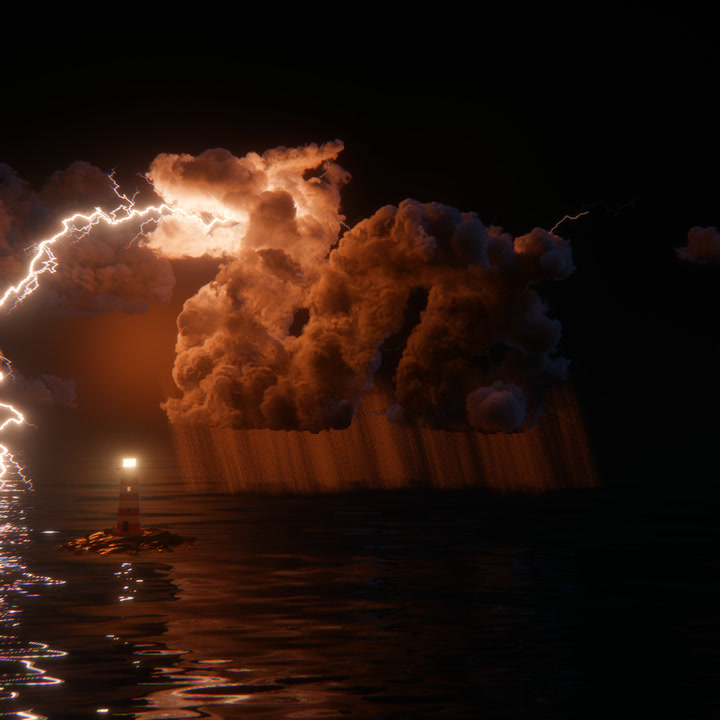
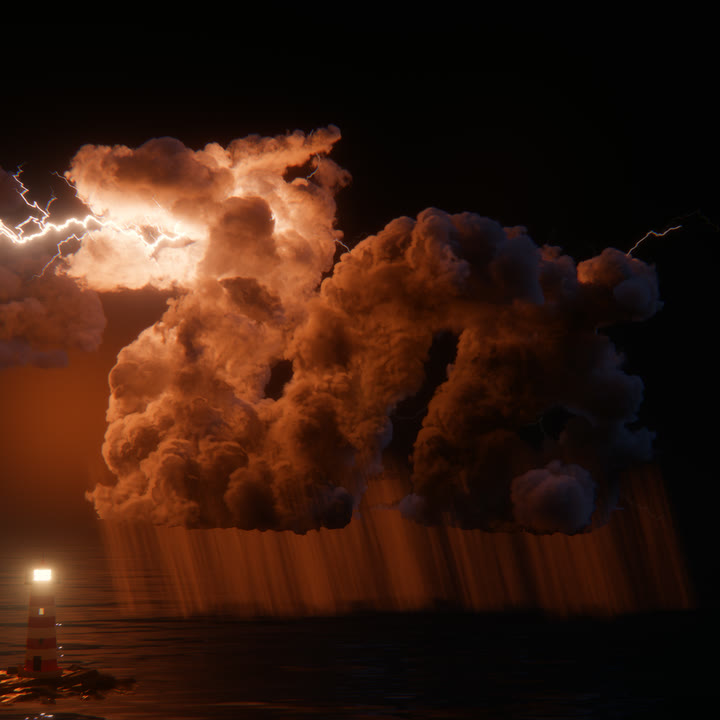
Bolt: its cover cut closer, to the dragon with the bolt leaving its mouth and the lighthouse under it, from the same moment drawn at 3,200 pixels so that what is cut out is sharp; and how that is made, in the readme
Claude-Session: https://claude.ai/code/session_01B7S7VNrJ4AeahmTMjKUi7f

diff --git a/21-bolt/README.md b/21-bolt/README.md
@@ -19,10 +19,13 @@ The loop for X, the thumbnail and the gallery's cover (`output/` is not committe
 
     npm run build && npx vite preview --port 5399 &
     URL=http://localhost:5399/ SET='{"thick":300}' node tools/film.mjs output/bolt_x.mp4 1024x1024 30      # about 12 minutes
-    URL=http://localhost:5399/ SET='{"thick":300}' AT=29.7 node tools/film.mjs output/bolt_thumbnail_2048.jpg
+    URL=http://localhost:5399/ SET='{"thick":300,"detail":8,"steady":false}' AT=29.7 node tools/film.mjs big.png 1600x1600
+    ffmpeg -i big.png -vf "crop=2300:2300:440:220,scale=2048:2048:flags=lanczos" -q:v 2 output/bolt_thumbnail_2048.jpg
 
 (from a built copy, so that nothing reloads the page while it is filmed; and with thinner clouds than the page's 800,
-which the light goes further into: a film is drawn a frame at a time, so what that costs does not matter there).
+which the light goes further into: a film is drawn a frame at a time, so what that costs does not matter there. The
+thumbnail is the dragon's part of that frame, drawn at 3,200 pixels and the clouds marched with 8 million, so that
+what is cut out of it is as sharp as the whole was; the cover is the same at 720.)
 
 ## How
 
